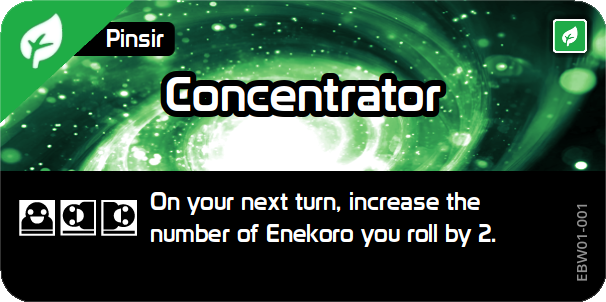
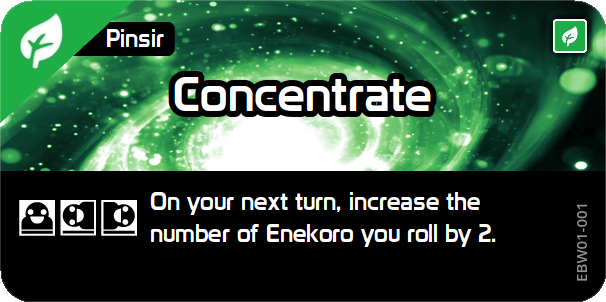
Concentrate

Changed region(s): [[0.2376, 0.2384, 0.7426, 0.3874]]

diff --git a/database/text/wazacards/EB01/Pinsir.md b/database/text/wazacards/EB01/Pinsir.md
@@ -2,9 +2,9 @@
 
 ### Expansion Box 1
 
-#### Concentrator ?
+#### Concentrate ?
 
-| Name      | Concentrator ?                                                   |
+| Name      | Concentrate ?                                                    |
 | --------- | ---------------------------------------------------------------- |
 | Japanese  | しゅうちゅう                                                     |
 | Type      | Grass                                                            |
@@ -19,7 +19,7 @@
 | Down      |                                                                  |
 | Sideways  | On your next turn, increase the number of Enekoro you roll by 2. |
 
-[Concentrator](https://bandai-hobby.net/site/pokemon/plakoro/images/products/eb01/03/img_wazacard01.webp)
+[Concentrate](https://bandai-hobby.net/site/pokemon/plakoro/images/products/eb01/03/img_wazacard01.webp)
 
 #### Endure ?
 
